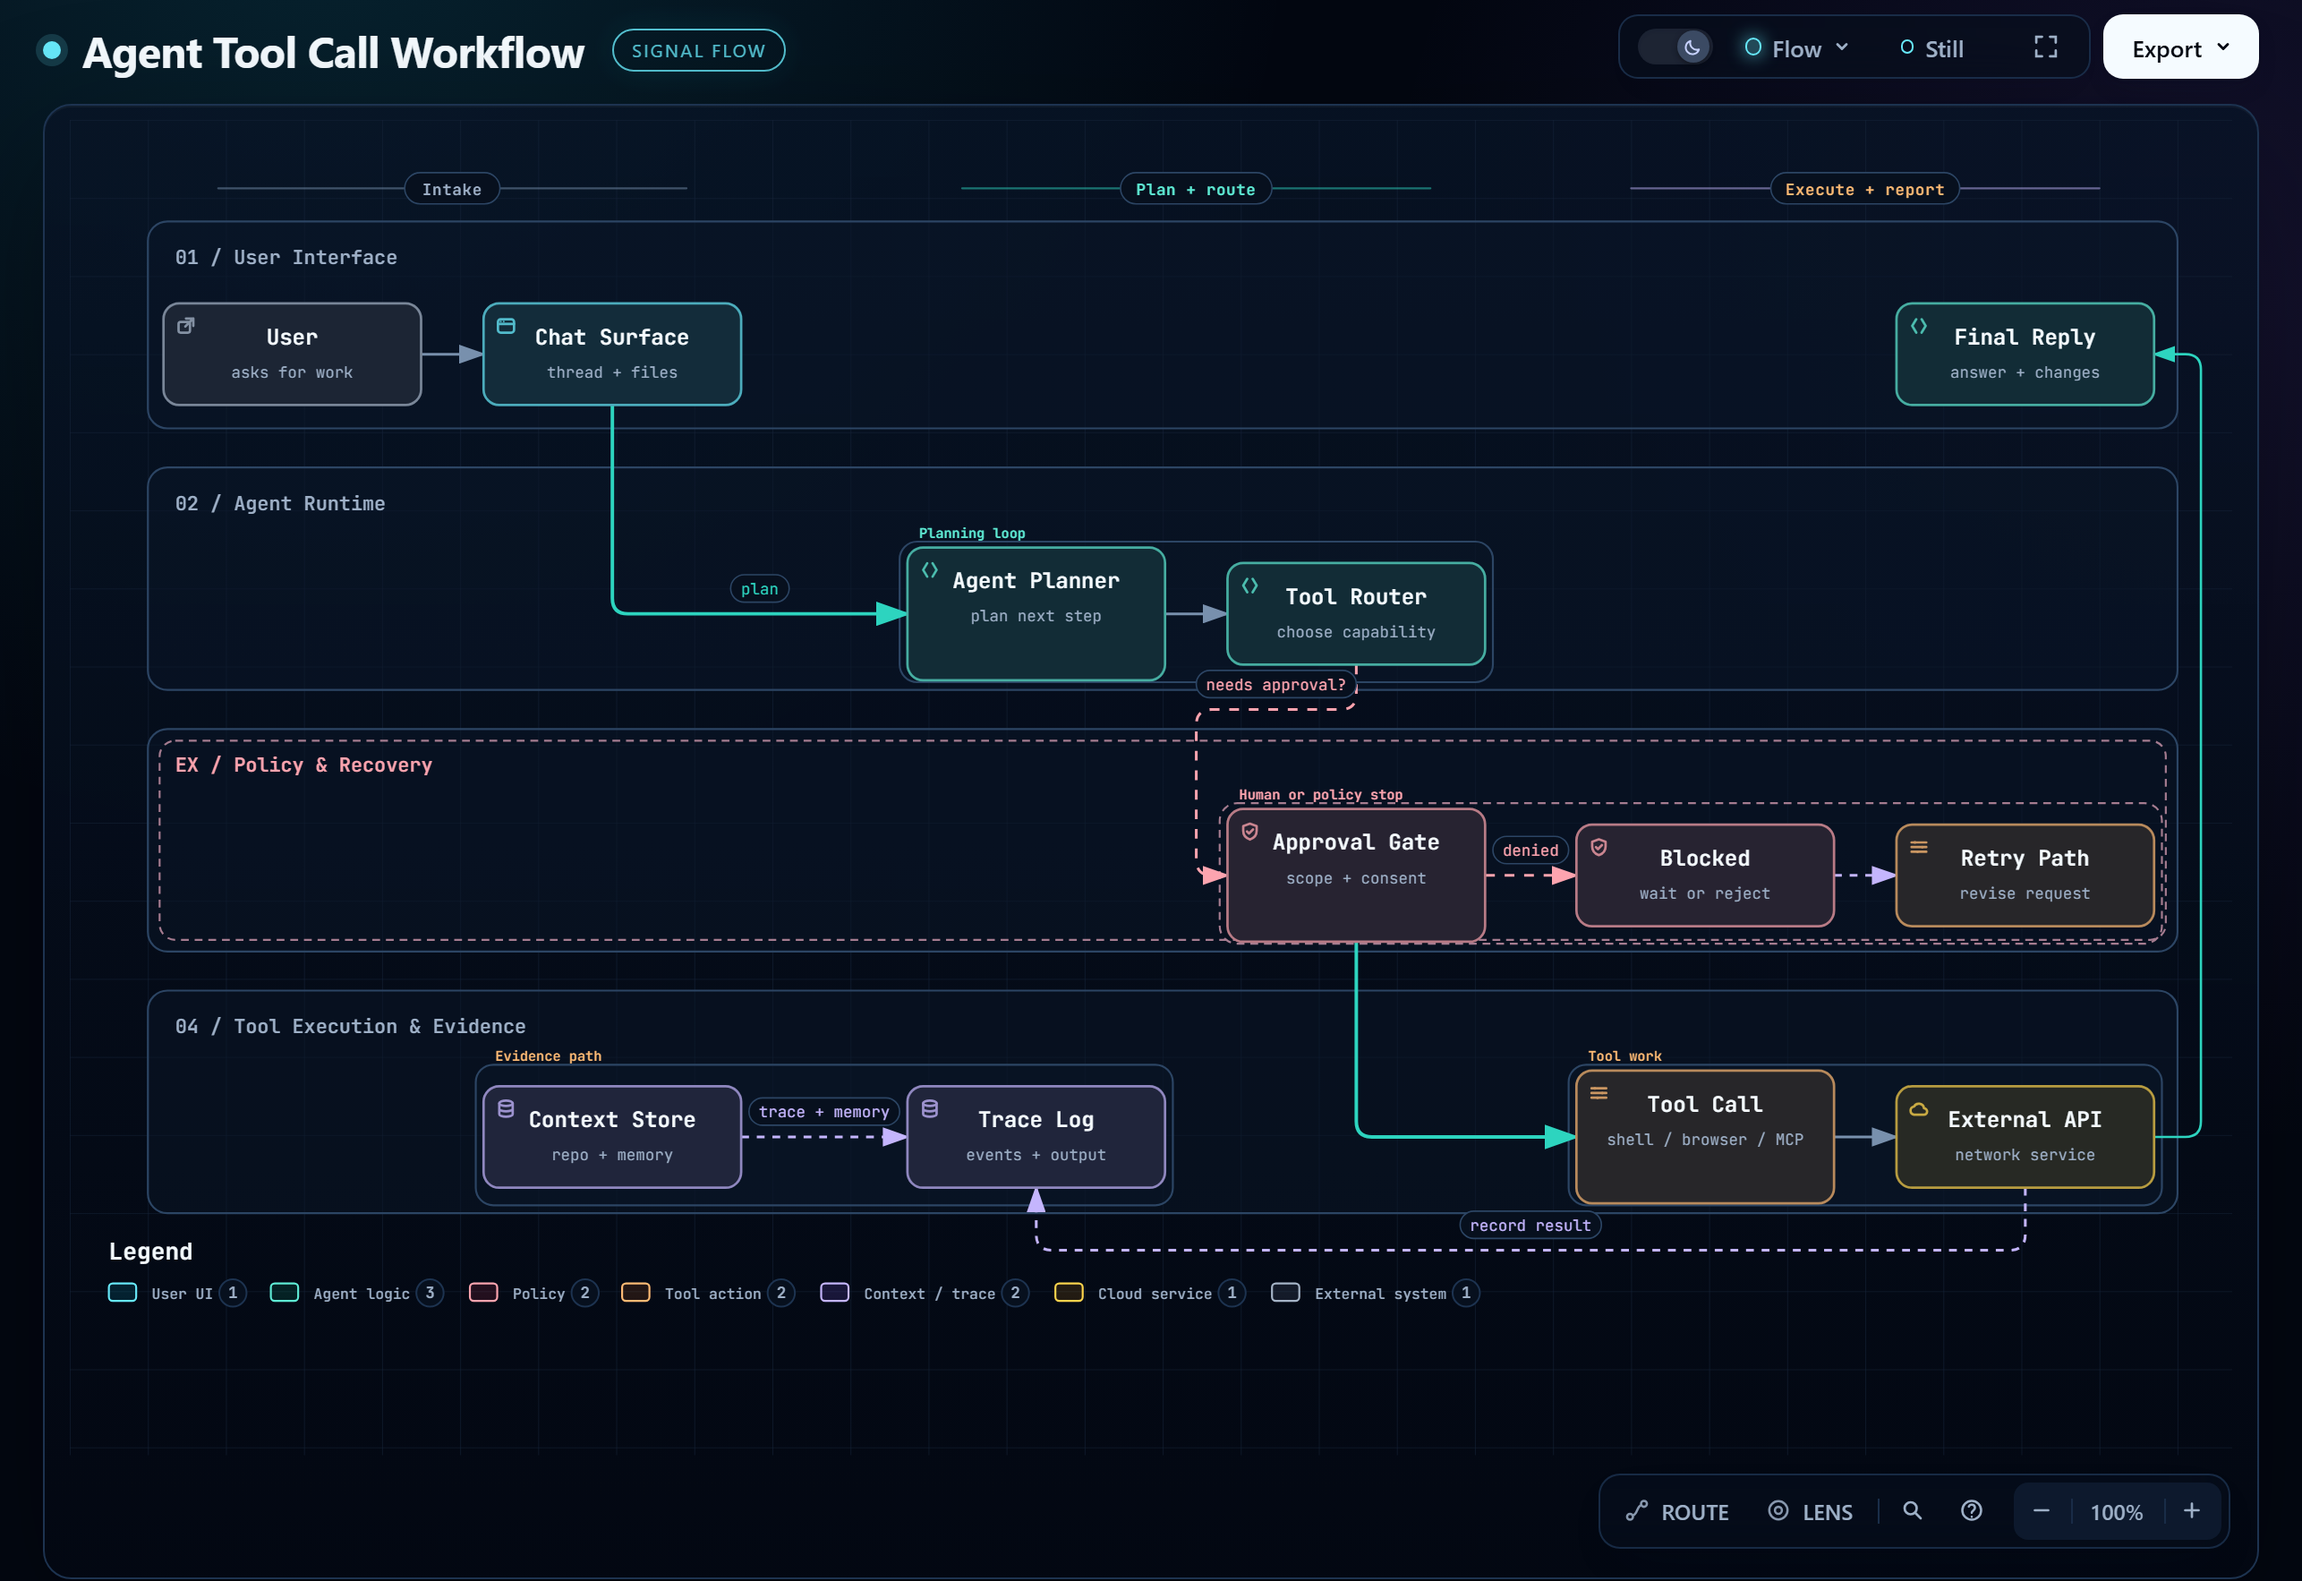
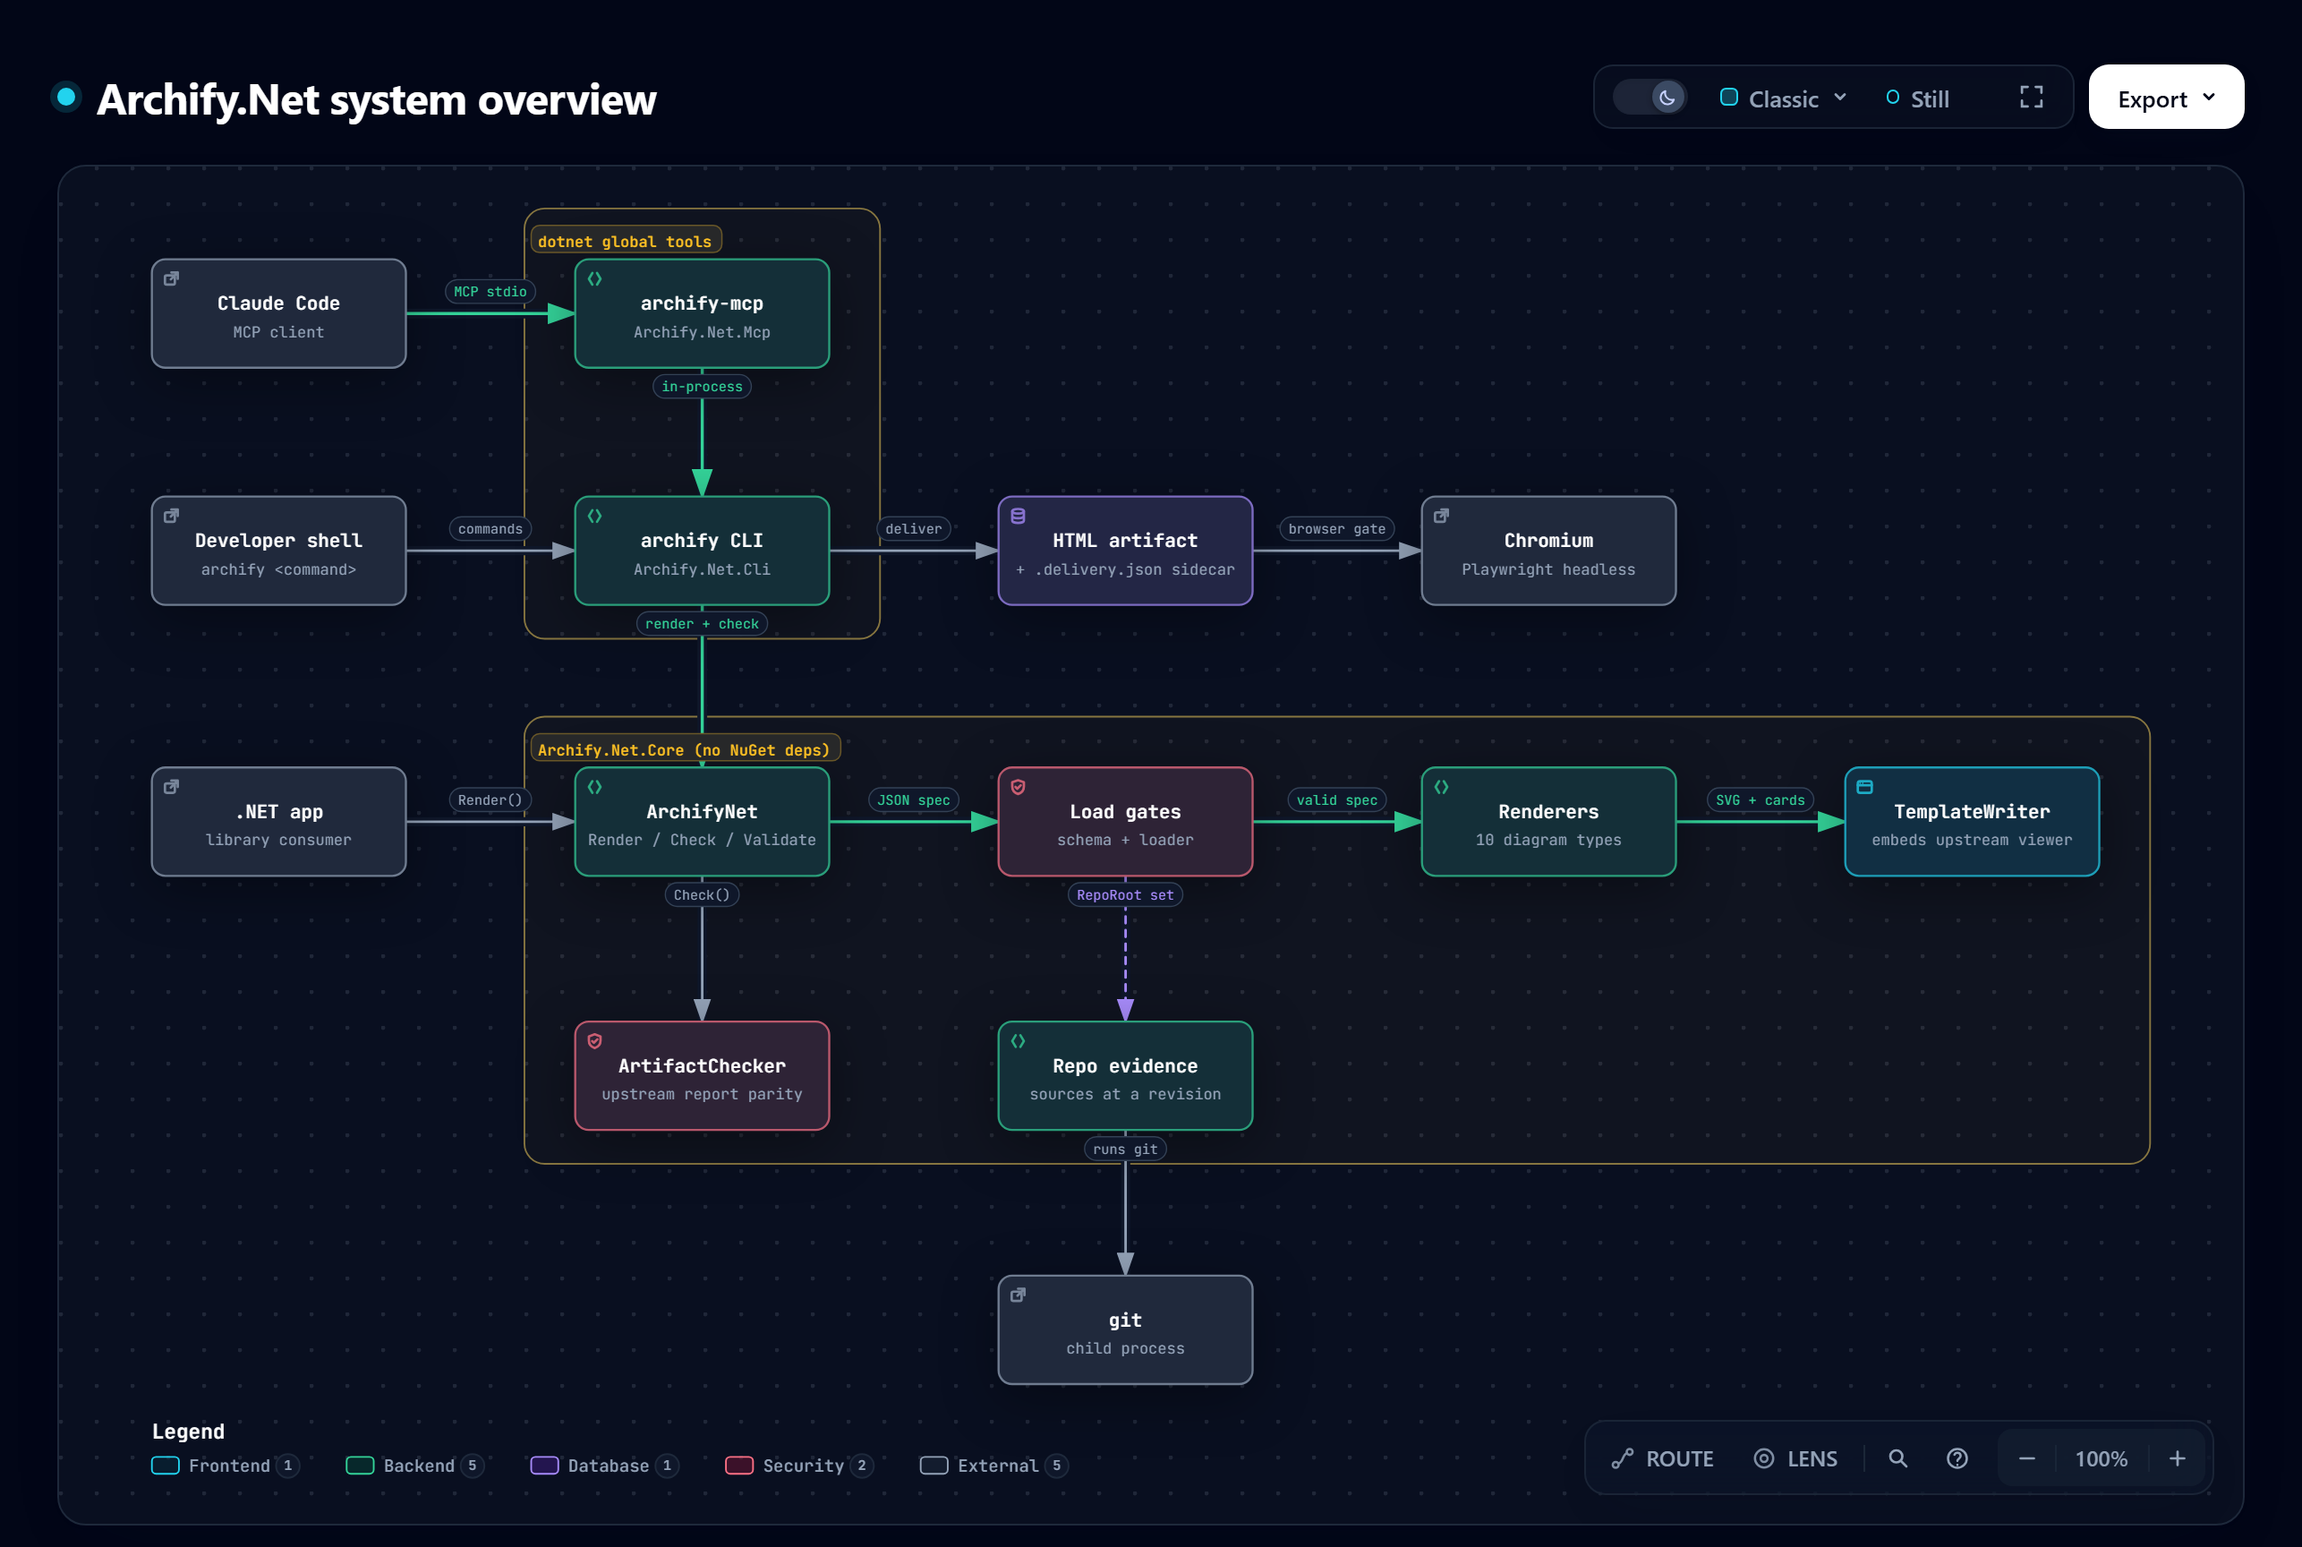
docs: README hero image — Archify.Net's own system overview, light and dark
Replaces the agent-tool-call workflow with an architecture diagram of
Archify.Net itself, authored and finalized through the archify-mcp server
(all gates pass). The spec is committed next to the images. Captured with
Playwright at 2x and cropped to the title and diagram card, as before.

diff --git a/README.md b/README.md
@@ -2,10 +2,10 @@
 
 <picture>
   <source media="(prefers-color-scheme: dark)" srcset="docs/images/hero-dark.png">
-  <img alt="Agent Tool Call Workflow rendered by Archify.Net: four lanes (user interface, agent runtime, policy and recovery, tool execution) with an approval gate, retry path and evidence trail" src="docs/images/hero-light.png">
+  <img alt="Archify.Net system overview rendered by Archify.Net: Claude Code reaches archify-mcp over MCP stdio, which calls the archify CLI in-process; the CLI, a developer shell or a .NET app drive the ArchifyNet facade, which runs load gates, the ten renderers and the TemplateWriter, with the artifact checker, repository evidence via git, and the delivered HTML checked in headless Chromium" src="docs/images/hero-light.png">
 </picture>
 
-<sub>`upstream/examples/agent-tool-call.workflow.json`, rendered by `archify render workflow`: the HTML is byte-identical to upstream's.</sub>
+<sub>Archify.Net drawing itself: [`docs/images/archify-net.architecture.json`](docs/images/archify-net.architecture.json), rendered by `archify finalize architecture` through the `archify-mcp` server.</sub>
 
 A C# port of [archify](https://github.com/tt-a1i/archify) 3.1.0, pinned at upstream commit `c21c31ff`.
 It renders architecture diagrams from JSON into standalone HTML with inline SVG, and checks the result.
